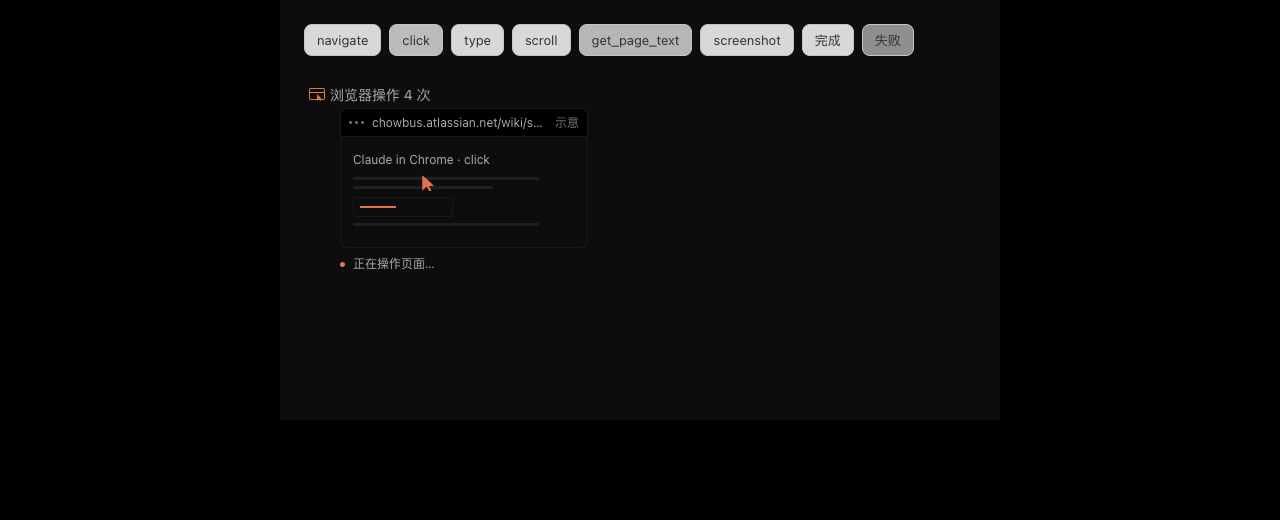
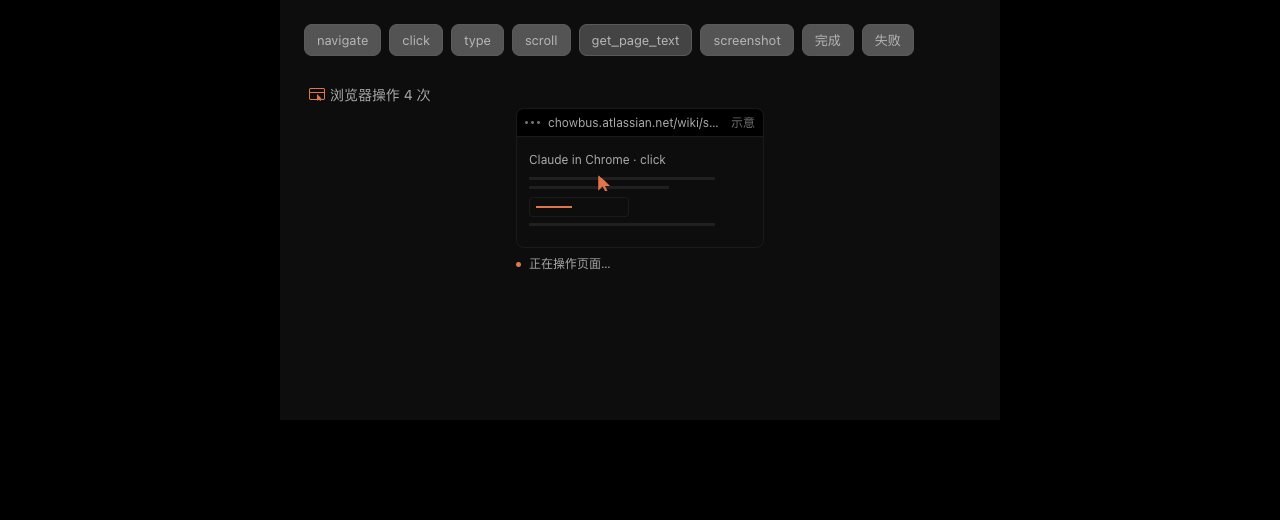
fix(desktop): center browser activity previews in chat
Keep browser operation animations aligned with the centered browser mockup across viewport sizes. The preview now centers the activity panel instead of offsetting it from the chat content, with checks covering alignment and overflow in light and dark modes.

diff --git a/packages/desktop/src/renderer/src/styles.css b/packages/desktop/src/renderer/src/styles.css
@@ -7876,7 +7876,7 @@ body.side-panel-resizing * {
 
 /* A page the agent opened, as a card: title, where it is, and the button to the browser panel. */
 .chat-browser-work { display: flex; flex-direction: column; gap: 8px; }
-.chat-browser-activity { max-width: 248px; min-width: 0; margin: 0 12px 8px 36px; color: var(--accent); }
+.chat-browser-activity { width: 100%; max-width: 248px; min-width: 0; margin: 0 auto 8px; color: var(--accent); }
 .chat-browser-activity[data-status='done'] { color: var(--status-done); }
 .chat-browser-activity:is([data-status='failed'], [data-status='denied']) { color: var(--danger); }
 .chat-browser-activity[data-status='interrupted'] { color: var(--text-muted); }

diff --git a/DESIGN.md b/DESIGN.md
@@ -103,7 +103,7 @@ Kando 是一个内容优先的 Agent 工作台：会话、代码、diff 和 Agen
 - **提示块**（GitHub 的 `> [!NOTE]` 等）左 3px 竖线 + 8% 同色淡底，类型名在上：说明 `--info`、提示 `--status-done`、重要 `--accent`、警告 `--warning`、注意 `--danger`。和状态色同一套，不另造色相。
 - **工具调用**默认折叠成一行，`动作: 对象` 的形式（`编辑: [TS] orders/list.ts · 2 次 +38 −21`）；外框只用发丝边，头部不填色。
 - **文件编辑**按文件分组（这是 Kando 的取舍，lobehub 是一次一行），展开是 unified diff，hunk 之间虚线。
-- **浏览器操作**每回合聚合成「浏览器操作 N 次」，展开保留各次输入和结果；同一标签页只显示最后一次成功返回的页面卡片，刷新不重复插卡。不同标签页、截图分别保留，异常在摘要中可见，页面入口不随回合完成而折叠。
+- **浏览器操作**每回合聚合成「浏览器操作 N 次」，展开保留各次输入和结果；操作动效用居中的浏览器示意小窗，与子 Agent 图沿同一中轴展示。同一标签页只显示最后一次成功返回的页面卡片，刷新不重复插卡。不同标签页、截图分别保留，异常在摘要中可见，页面入口不随回合完成而折叠。
 - **子 Agent** 画成居中的分叉图：左边「主 Agent」框（下一行小字写派出几个、几个进行中），虚线连到右边一列一行高的卡片（类型 + 描述）；进行中的线流动，完成变绿。点一张卡在图下方整宽展开，一次一个：「指令」灰底块 + 「结果」细边块。
 - **待办**：进度环（`--info`，全完成变 `--status-done`）+ `2/4` 药丸 + 「当前步骤: xxx」；展开是带头的面板，行间虚线，进行中的一行读 `activeForm`。
 - **需要用户回答的东西**放 dock 里，消息流只留一行。选项的选中态是 `--fill-2` 底 + 右侧赤陶勾，序号 chip 不变色，「推荐」是中性药丸——不要用赤陶当选中底色。
